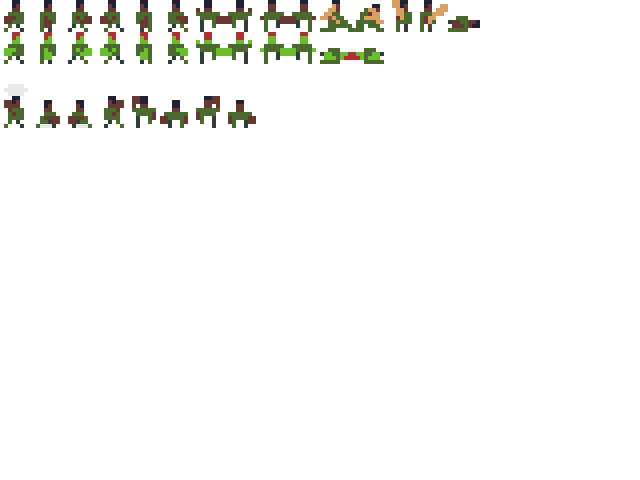
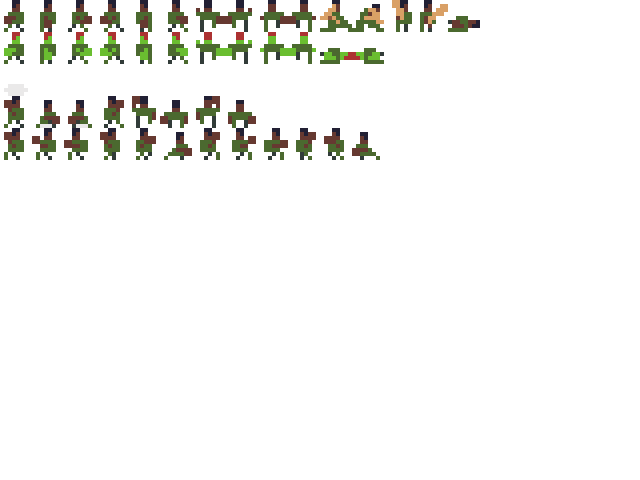
more animations

Changed region(s): [[0.0, 0.25, 0.5938, 0.3438]]

diff --git a/src/entities/Player.js b/src/entities/Player.js
@@ -43,8 +43,8 @@ class Player extends Phaser.Sprite {
     this.animations.add("walk_left", [3, 4, 5, 4], animSpeed, true);
     this.animations.add("walk_up", [6, 7], animSpeed, true);
     this.animations.add("walk_down", [8, 9], animSpeed, true);
-    this.animations.add("mine_right", [60, 61], animSpeed * 2, true);
-    this.animations.add("mine_left", [62, 63], animSpeed * 2, true);
+    this.animations.add("mine_right", [80, 81, 82, 83, 84, 85], animSpeed * 2, true);
+    this.animations.add("mine_left", [86, 87, 88, 89, 90, 91], animSpeed * 2, true);
     this.animations.add("mine_up", [64, 65], animSpeed * 2, true);
     this.animations.add("mine_down", [66, 67], animSpeed * 2, true);
     this.animations.add("attack", [12, 13], animSpeed * 2, true);
